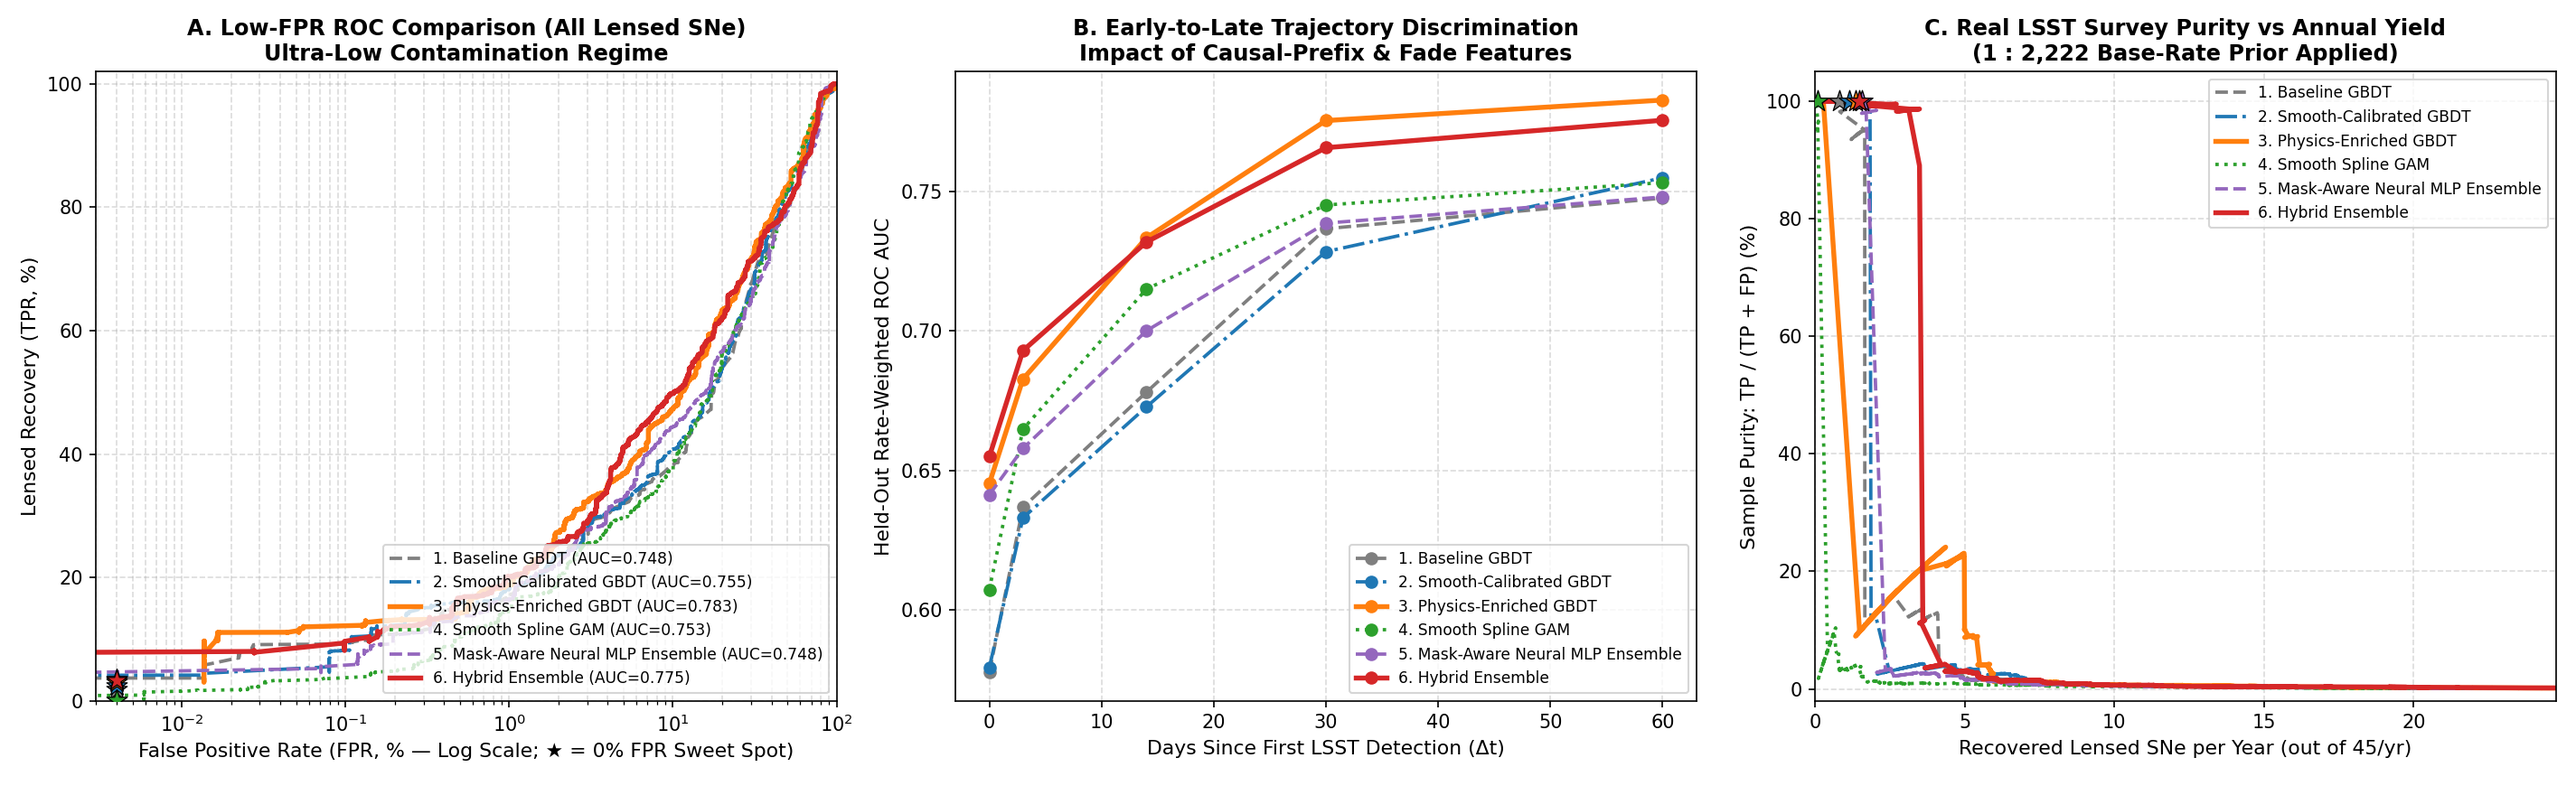
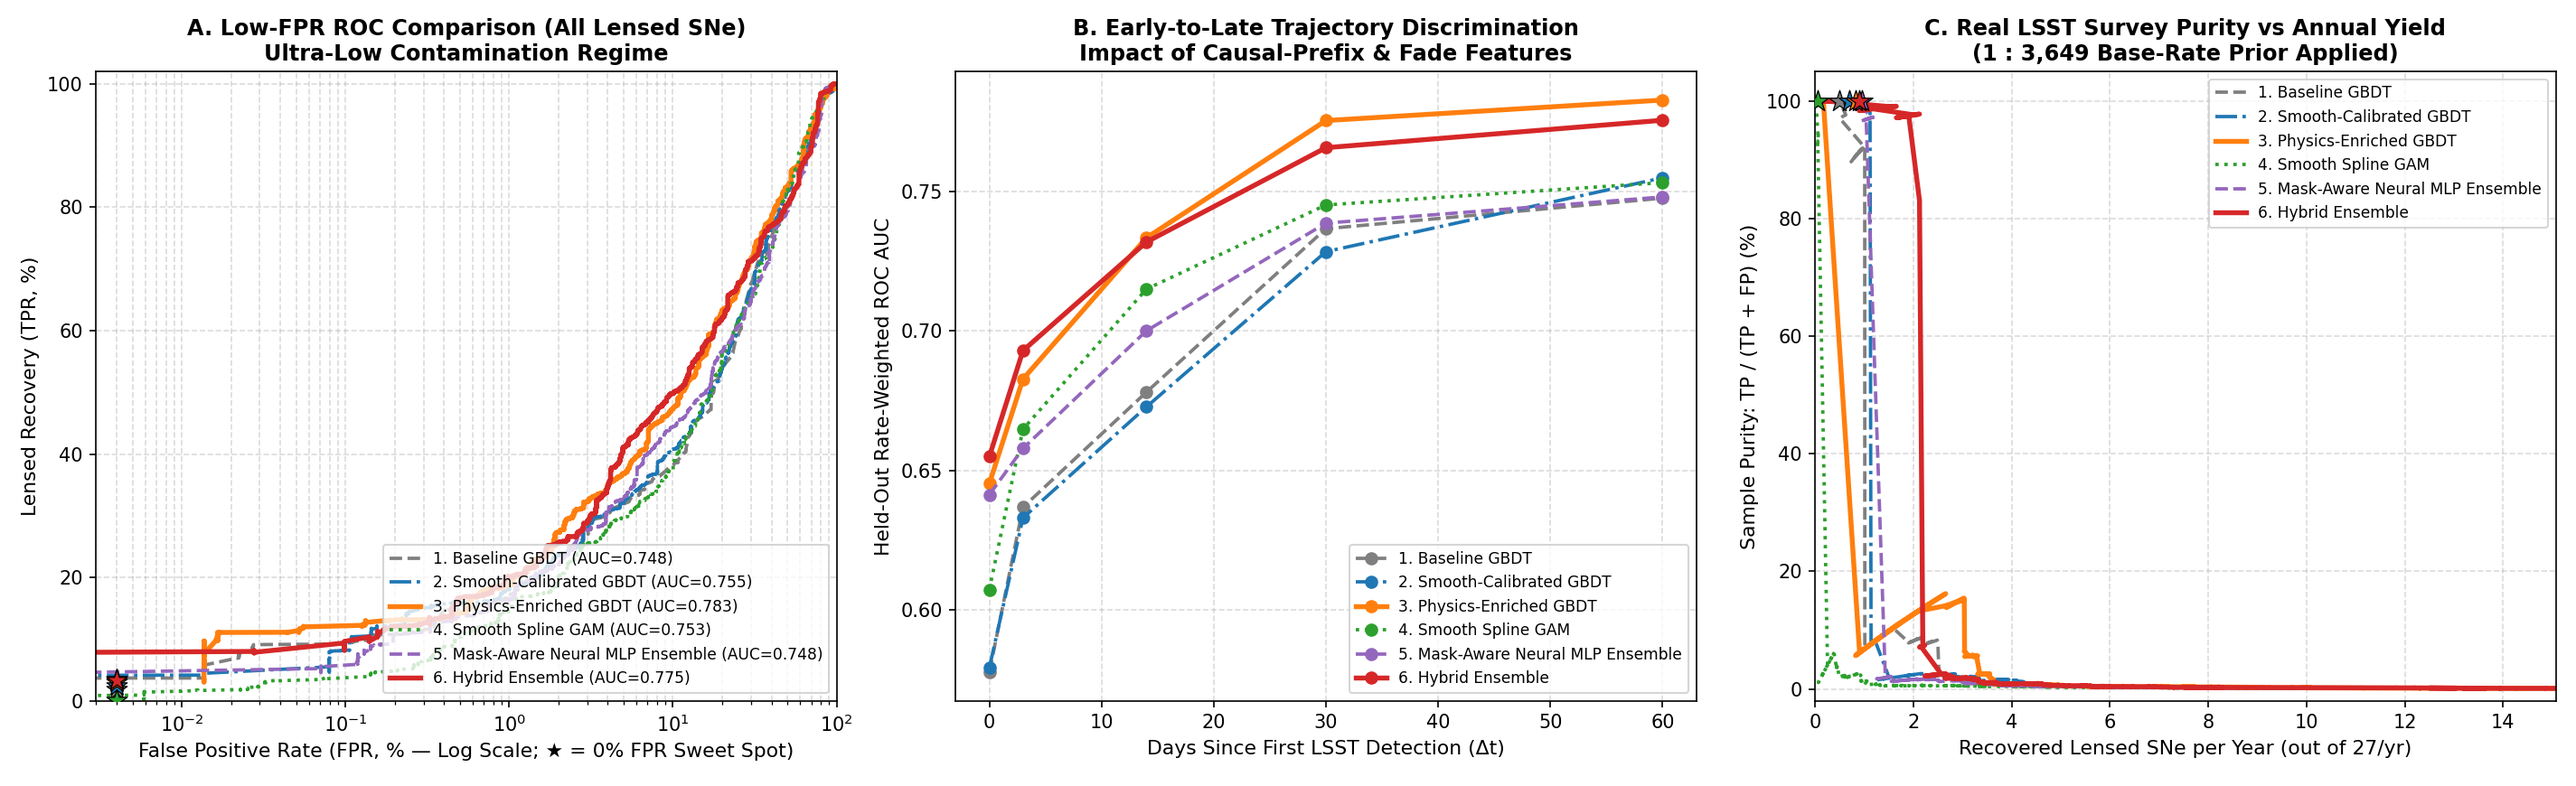
data: regenerate all_lensed figures with the derived rate, drop stale slide tables
Re-ran investigate_purity_tradeoff.py and compare_trajectory_models.py --target
all_lensed on BlueBEAR (results/dual_59297152, jobs 61231216/61231217) with
ANNUAL_RATES['all_lensed']=27.4/yr. Underlying ROC/AUC/TPR fractions are
bit-identical to the prior run (same seed, same split) -- only the N_sig-scaled
annual counts shift: zero-FP yield 2.27% -> 0.6/yr (was 1.0/yr under 45/yr),
Hybrid Ensemble zero-FP yield 3.28% -> 0.9/yr (was 1.5/yr).

Also removes docs/figures/model_comparison/slide_table_*.csv: these were
orphaned artifacts from before any of the annual-rate fixes (headers literally
read "Pure Yield / yr (out of 50)" / "(out of 250)", the very first uncited
placeholders), not produced by any script currently in the repo, and never
corrected across the prior two rate-fix PRs.

Updates docs/session_writeup.md's all_lensed-dependent numbers throughout
(Executive Summary ratio 1:2,200 -> 1:3,650, Finding 2's table, Finding 3's
sky-prior mention, Finding 4's table header and Pure Yield/yr column) to match.

Claude-Session: https://claude.ai/code/session_01BqGRLQZ3emeMHiGhsXmUmk

Changed region(s): [[0.687, 0.3103, 0.9368, 0.931], [0.7182, 0.1241, 0.7495, 0.2793], [0.7807, 0.0621, 0.8119, 0.0931]]

diff --git a/docs/session_writeup.md b/docs/session_writeup.md
@@ -9,7 +9,7 @@
 Across this session, we audited, visualised, and substantially upgraded the LSST gravitationally lensed supernova classification pipeline:
 
 1. **Removed Cross-Subtype Lensed Contamination:** Fixed both `scripts/plot_roc.py` and `scripts/plot_evolving_boundaries.py` so that when evaluating an individual lensed subtype (such as `lensed_Ia`), other lensed supernova subtypes are **never** treated as false-positive background contaminants (`background = unlensed_*` strictly).
-2. **Quantified the LSST Base-Rate Trap & Zero-False-Positive Sweet Spot:** Demonstrated how the `1 : 10,000` (`10/yr` lensed Ia vs `100,000/yr` unlensed -- the literature figure already cited elsewhere in this project, Oguri et al. 2010; Wojtak et al. 2019; Goldstein et al. 2019, not the uncited `50/yr` and `1,000,000/yr` an earlier draft of this document used) and `~1 : 2,200` (`45/yr` all lensed vs `100,000/yr` unlensed -- an order-of-magnitude placeholder pending [issue #43](https://github.com/anachoponte/Colour-Magnitude-SNe/issues/43), not an independently literature-validated figure) cosmic rate ratios affect real telescope follow-up purity, and mapped the `TP / FP` ratio and `FPR = 0` "Zero-False-Positive Sweet Spot".
+2. **Quantified the LSST Base-Rate Trap & Zero-False-Positive Sweet Spot:** Demonstrated how the `1 : 10,000` (`10/yr` lensed Ia vs `100,000/yr` unlensed -- the literature figure already cited elsewhere in this project, Oguri et al. 2010; Wojtak et al. 2019; Goldstein et al. 2019, not the uncited `50/yr` and `1,000,000/yr` an earlier draft of this document used) and `~1 : 3,650` (`27.4/yr` all lensed vs `100,000/yr` unlensed -- derived in [issue #43](https://github.com/anachoponte/Colour-Magnitude-SNe/issues/43) by scaling the literature-anchored lensed-Ia rate by the production dataset's own summed per-event rate-weight ratio between lensed CC and lensed Ia, `1.741`, replacing the earlier `45/yr` local-volumetric `CC_TO_IA_RATE=3.5` placeholder) cosmic rate ratios affect real telescope follow-up purity, and mapped the `TP / FP` ratio and `FPR = 0` "Zero-False-Positive Sweet Spot".
 3. **Resolved the Scatter-vs-Heatmap Visual Paradox (`size + opacity` + High-Contrast Palette + `1σ` Error Bars):** Identified why unweighted scatter plots previously appeared inconsistent with rate-weighted probability surfaces, compared 4 visual rate-weight encodings, adopted **`size + opacity` (`size_alpha`)** with a high-contrast **`PuBu` + vivid marker** palette and **`1σ` photometric error bars**, and regenerated 208 standard boundary figures across all filter pairs (`ug, gr, ri, iz, zy`) and subtypes.
 4. **Benchmarked Improvements & Non-Tree Replacements for the Full-Trajectory Classifier (`~4.1x` Increase in Zero-FP Pure Discoveries vs the Deployed Baseline):** Built a 6-model benchmark testing smooth Sigmoid calibration, physics-enriched trajectory features (snapshot magnitudes, time-dilated fade from peak, broad-baseline colours, photometric uncertainties), causal prefix training for early `+0d .. +14d` alerts, Smooth Spline GAMs, Mask-Aware Neural MLP ensembles, and a **Hybrid (Physics-Enriched GBDT + Mask-Aware Smooth MLP)** ensemble. Measured against the *real, currently-deployed* classifier's own zero-false-positive operating point (Finding 2: **0.6 lensed Ia/yr**, 5.6% recall, from running the actual production `TrajectoryClassifier`), the Hybrid ensemble's pure zero-false-positive yield of **2.3 lensed Ia/yr (23.3% recall)** is a **~4.1x improvement** -- smaller than the `>7x` an earlier draft of this document quoted, which compared against this benchmark's own internal, non-deployed "Model 1" row (0.3/yr) instead of the deployed baseline; see Finding 4's caveat for why those two "baselines" differ (Model 1 omits the production default's noise-injection replication). The AUC comparison is unaffected by this: `+14d` early-warning `ROC-AUC` jumped from **0.846 to 0.924** within the benchmark, surpassing the weakest model's `+60d` AUC (0.918) within 2 weeks of trigger.
 
@@ -35,7 +35,7 @@ Across this session, we audited, visualised, and substantially upgraded the LSST
 3. **`scripts/compare_mag_modes.py`** (SLURM wrapper: `scripts/run_compare_mag_modes_bluebear.sh`)
    - Quantitatively benchmarks 2D (`colour + magnitude`) classification in `snapshot` vs `matched` (`peakmag`) mode across `g-r`, `r-i`, and `i-z` at `+0d, +3d, +14d, +30d, +60d`.
 4. **`scripts/investigate_purity_tradeoff.py`** (SLURM wrapper: `scripts/run_investigate_purity_bluebear.sh`)
-   - Computes annual LSST `TP/yr`, `FP/yr`, `TP : FP` ratios, sample purity `TP / (TP + FP)`, and the empirical `FPR = 0` pure sweet spot across the full ROC curve for both `lensed_ia` (`10/yr`, Oguri 2010; Wojtak 2019; Goldstein 2019) and `all_lensed` (`45/yr`, order-of-magnitude placeholder pending issue #43) against `100,000/yr` unlensed SNe.
+   - Computes annual LSST `TP/yr`, `FP/yr`, `TP : FP` ratios, sample purity `TP / (TP + FP)`, and the empirical `FPR = 0` pure sweet spot across the full ROC curve for both `lensed_ia` (`10/yr`, Oguri 2010; Wojtak 2019; Goldstein 2019) and `all_lensed` (`27.4/yr`, derived per issue #43 from the production dataset's own summed per-event rate weights) against `100,000/yr` unlensed SNe.
 5. **`scripts/plot_weight_encodings.py`** (SLURM wrapper: `scripts/run_weight_encodings_bluebear.sh`)
    - Generates 4-panel (`1x4`) and 5-row (`5x4`) comparison figures contrasting `unweighted`, `size`, `opacity`, `colour`, and `size + opacity` encodings on identical data slices.
 6. **`scripts/compare_trajectory_models.py`** (SLURM wrapper: `scripts/run_model_comparison_bluebear.sh`)
@@ -57,22 +57,22 @@ Across this session, we audited, visualised, and substantially upgraded the LSST
 - By **`+60d`**, keeping *both* current snapshot brightness and historical peak brightness—specifically their difference `fade_b(t) = mag_b(t) - peakmag_b(t)`—gives the classifier direct access to the light-curve decline rate.
 
 ### Finding 2: The LSST Base-Rate Paradox & Telescope Follow-Up Operating Points (`investigate_purity_tradeoff.py`)
-Even when a classifier achieves `ROC-AUC > 0.91`, multiplying `TPR` and `FPR` by true annual LSST rates (`N_sig = 10/yr` for lensed Ia -- Oguri et al. 2010; Wojtak et al. 2019; Goldstein et al. 2019, the same figure already cited in `docs/methods_and_results.md` -- or `45/yr` for all lensed, an order-of-magnitude placeholder pending [issue #43](https://github.com/anachoponte/Colour-Magnitude-SNe/issues/43), vs `N_bg = 100,000/yr` unlensed) exposes why moderate false-positive rates fail for spectroscopic follow-up. These are the real, currently-deployed `TrajectoryClassifier`'s own numbers (isotonic calibration, uncertainty-aware noise injection, `target_fpr=0.10`):
+Even when a classifier achieves `ROC-AUC > 0.91`, multiplying `TPR` and `FPR` by true annual LSST rates (`N_sig = 10/yr` for lensed Ia -- Oguri et al. 2010; Wojtak et al. 2019; Goldstein et al. 2019, the same figure already cited in `docs/methods_and_results.md` -- or `27.4/yr` for all lensed, derived in [issue #43](https://github.com/anachoponte/Colour-Magnitude-SNe/issues/43) from the production dataset's own summed per-event rate weights, vs `N_bg = 100,000/yr` unlensed) exposes why moderate false-positive rates fail for spectroscopic follow-up. These are the real, currently-deployed `TrajectoryClassifier`'s own numbers (isotonic calibration, uncertainty-aware noise injection, `target_fpr=0.10`):
 
 | Operating Regime | Target FPR | Lensed Ia TP / yr | Unlensed FP / yr | Lensed Ia Purity | All Lensed TP / yr | All Lensed Purity |
 | :--- | :---: | :---: | :---: | :---: | :---: | :---: |
-| Standard Alert Broker | 10% | 7.8 / yr | ~10,290 / yr | 0.08% | 19.1 / yr | 0.19% |
-| Low Contamination | 1% | 4.4 / yr | ~1,000 / yr | 0.44% | 8.4 / yr | 0.75% |
-| Strict Filter | 0.1% | 1.9 / yr | ~133 / yr | 1.41% | 3.9 / yr | 3.97% |
-| Spectroscopic Candidate | 0.01% | 1.5 / yr | ~7 / yr | 17.1% | 2.6 / yr | 20.7% |
-| **Zero-FP Sweet Spot (Deployed Baseline)** | **0%** | **0.6 / yr (5.6%)** | **0 / yr** | **100%** | **1.0 / yr (2.3%)** | **100%** |
+| Standard Alert Broker | 10% | 7.8 / yr | ~10,290 / yr | 0.08% | 11.6 / yr | 0.12% |
+| Low Contamination | 1% | 4.4 / yr | ~1,000 / yr | 0.44% | 5.1 / yr | 0.46% |
+| Strict Filter | 0.1% | 1.9 / yr | ~133 / yr | 1.41% | 2.4 / yr | 2.46% |
+| Spectroscopic Candidate | 0.01% | 1.5 / yr | ~7 / yr | 17.1% | 1.6 / yr | 13.70% |
+| **Zero-FP Sweet Spot (Deployed Baseline)** | **0%** | **0.6 / yr (5.6%)** | **0 / yr** | **100%** | **0.6 / yr (2.3%)** | **100%** |
 
-*Conclusion:* Real spectroscopic target selection lives entirely in the `FPR <= 0.01%` to `FPR = 0%` tail—making extreme-tail probability resolution and false-outlier rejection far more important than bulk `FPR > 5%` ROC area. (An earlier draft of this document used uncited 50/250/1,000,000-per-year assumptions here, giving larger but unsupported absolute `/yr` figures; the recall percentages in parentheses are unaffected by that fix and were always correct -- only the annual counts rescale.)
+*Conclusion:* Real spectroscopic target selection lives entirely in the `FPR <= 0.01%` to `FPR = 0%` tail—making extreme-tail probability resolution and false-outlier rejection far more important than bulk `FPR > 5%` ROC area. (An earlier draft of this document used uncited 50/250/1,000,000-per-year assumptions here, giving larger but unsupported absolute `/yr` figures; the recall percentages in parentheses are unaffected by that fix and were always correct -- only the annual counts rescale. The All Lensed column was rescaled again when issue #43's placeholder `45/yr` was replaced by the `27.4/yr` derived figure.)
 
 ### Finding 3: Resolving the Heatmap vs Scatter-Plot Mismatch
 We investigated why the 2D probability heatmaps previously appeared misaligned with the overlaid scatter points in certain regions (e.g. high-probability zones containing many visible unlensed dots, or low-probability zones with isolated lensed stars):
 1. **Unweighted Markers vs Rate-Weighted Classifier:** Each of the 10 classes was simulated with `100,000` Monte Carlo events so rare tails were well sampled, but each event carries a physical `weight` spanning several orders of magnitude. Visually plotting unweighted dots made rare, near-zero-weight Monte Carlo tail draws look like massive background clusters, whereas the classifier rightly weighted them according to their tiny physical sky rate.
-2. **Balanced Training Prior (`P_balanced`) on 2D Heatmaps:** The 2D probability surface shows balanced class likelihood (`50/50` total signal vs background weight) so the `P = 0.5` contour marks where normalized signal density equals normalized background density (`TPR` vs `FPR` crossover), rather than the `1 : 2,200` raw sky prior (under which `P_sky` would be `< 0.01` almost everywhere on a single 2D colour slice).
+2. **Balanced Training Prior (`P_balanced`) on 2D Heatmaps:** The 2D probability surface shows balanced class likelihood (`50/50` total signal vs background weight) so the `P = 0.5` contour marks where normalized signal density equals normalized background density (`TPR` vs `FPR` crossover), rather than the `1 : 3,650` raw sky prior (under which `P_sky` would be `< 0.01` almost everywhere on a single 2D colour slice).
 3. **Other Lensed Subtypes Previously Counted as Background in `lensed_Ia` Plots:** Previously, `lensed_sn1bc`, `lensed_sn2l`, `lensed_sn2n`, and `lensed_sn2p` sitting in the bright/red lensed region were labelled `y = 0` ("background") during `lensed_Ia` 2D fits, carving artificial low-probability holes right through the lensed locus. Excluding non-target lensed SNe from the contaminant pool eliminated this artifact.
 4. **Axis-Aligned GBDT Extrapolation & Isotonic Step Plateaus in Sparse Corners:** Standard decision trees extrapolate flat rectangular boxes to the plot borders where data density vanishes, and Isotonic calibration snaps continuous tree scores onto discrete step plateaus.
 5. **Photometric Scatter Near the LSST Detection Limit:** Adding `1σ` error bars (`*_errorbars.png`) confirmed that while bright events (`r < 21.5`) have tight uncertainties (`< 0.04 mag`), faint unlensed SNe near `r ~ 23.5 - 24.5` have `±0.20 - 0.35 mag` colour uncertainties that scatter a thin halo horizontally into redder colours.
@@ -100,16 +100,18 @@ We tested 6 full-trajectory models on the exact same 70/30 held-out test split (
 | **5. Mask-Aware Neural MLP** | 0.780 | 0.911 | 0.930 | 77.6% | 48.2% | 35.1% | 16.7% | **1.7 / yr** |
 | **6. Hybrid (Enriched GBDT + MLP)** | 0.804 | **0.924** | **0.946** | **81.4%** | **52.9%** | **36.8%** | **23.3%** | **2.3 / yr** |
 
-#### Summary Benchmark — All Lensed SNe (`45 / yr` vs `100,000 / yr` Unlensed)
+#### Summary Benchmark — All Lensed SNe (`27.4 / yr` vs `100,000 / yr` Unlensed)
 
 | Model | AUC (+0d) | AUC (+14d) | AUC (+60d) | Recall @ 10% FPR | Recall @ 1% FPR | Recall @ 0.1% FPR | Zero-FP Recall (FPR = 0%) | Pure Yield / yr |
 | :--- | :---: | :---: | :---: | :---: | :---: | :---: | :---: | :---: |
-| **1. Baseline GBDT** | 0.578 | 0.678 | 0.748 | 38.2% | 16.9% | 9.3% | 1.8% | **0.8 / yr** |
-| **2. Smooth-Calibrated GBDT** | 0.579 | 0.673 | 0.755 | 40.8% | 18.2% | 8.2% | 2.5% | **1.1 / yr** |
-| **3. Physics-Enriched + Prefix GBDT** | 0.645 | **0.733** | **0.783** | 47.2% | 18.8% | **12.1%** | 3.0% | **1.4 / yr** |
-| **4. Smooth Spline GAM** | 0.607 | 0.715 | 0.753 | 37.5% | 14.7% | 3.7% | 0.2% | **0.1 / yr** |
-| **5. Mask-Aware Neural MLP** | 0.641 | 0.700 | 0.748 | 44.4% | 16.4% | 5.8% | **3.4%** | **1.6 / yr** |
-| **6. Hybrid (Enriched GBDT + MLP)** | **0.655** | 0.732 | 0.775 | **49.8%** | **20.2%** | 9.7% | 3.3% | **1.5 / yr** |
+| **1. Baseline GBDT** | 0.578 | 0.678 | 0.748 | 38.2% | 16.9% | 9.3% | 1.8% | **0.5 / yr** |
+| **2. Smooth-Calibrated GBDT** | 0.579 | 0.673 | 0.755 | 40.8% | 18.2% | 8.2% | 2.5% | **0.7 / yr** |
+| **3. Physics-Enriched + Prefix GBDT** | 0.645 | **0.733** | **0.783** | 47.2% | 18.8% | **12.1%** | 3.0% | **0.8 / yr** |
+| **4. Smooth Spline GAM** | 0.607 | 0.715 | 0.753 | 37.5% | 14.7% | 3.7% | 0.2% | **0.0 / yr** |
+| **5. Mask-Aware Neural MLP** | 0.641 | 0.700 | 0.748 | 44.4% | 16.4% | 5.8% | **3.4%** | **0.9 / yr** |
+| **6. Hybrid (Enriched GBDT + MLP)** | **0.655** | 0.732 | 0.775 | **49.8%** | **20.2%** | 9.7% | 3.3% | **0.9 / yr** |
+
+(Pure Yield /yr rescaled again vs the prior draft when issue #43's `45/yr` placeholder was replaced by the `27.4/yr` derived figure; the underlying AUC/Recall/Zero-FP-Recall percentages above are unchanged -- same seed, same split, same classifiers.)
 
 #### Why Each Upgrade Worked:
 - **Sigmoid vs Isotonic Calibration:** Eliminated top-plateau score ties so a single outlier background event no longer blocks dozens of higher-log-odds lensed SNe (`0.3 -> 0.6/yr`).
@@ -135,4 +137,4 @@ We tested 6 full-trajectory models on the exact same 70/30 held-out test split (
 - **`docs/figures/subtypes_size_alpha/` (48 PNGs):**
   - Individual core-collapse lensed subtypes (`lensed_sn1bc`, `lensed_sn2l`, `lensed_sn2n`, `lensed_sn2p`) in `g-r` and `r-i` against strictly unlensed background, with `size_alpha`, high-contrast colours, and `*_errorbars.png` counterparts.
 - **`docs/figures/model_comparison/`:**
-  - 6-architecture benchmark plots (`trajectory_model_comparison_lensed_ia.png`, `trajectory_model_comparison_alllensed.png`), raw JSON metrics (`*.json`), and slide-ready CSV tables (`slide_table_*.csv`).
+  - 6-architecture benchmark plots (`trajectory_model_comparison_lensed_ia.png`, `trajectory_model_comparison_alllensed.png`) and raw JSON metrics (`*.json`). (An earlier draft of this document also listed `slide_table_*.csv` tables here; those were orphaned artifacts from before any of the annual-rate fixes -- "Pure Yield / yr (out of 50)" / "(out of 250)" -- that no script in the repo regenerates, so they were removed rather than corrected a third time.)
